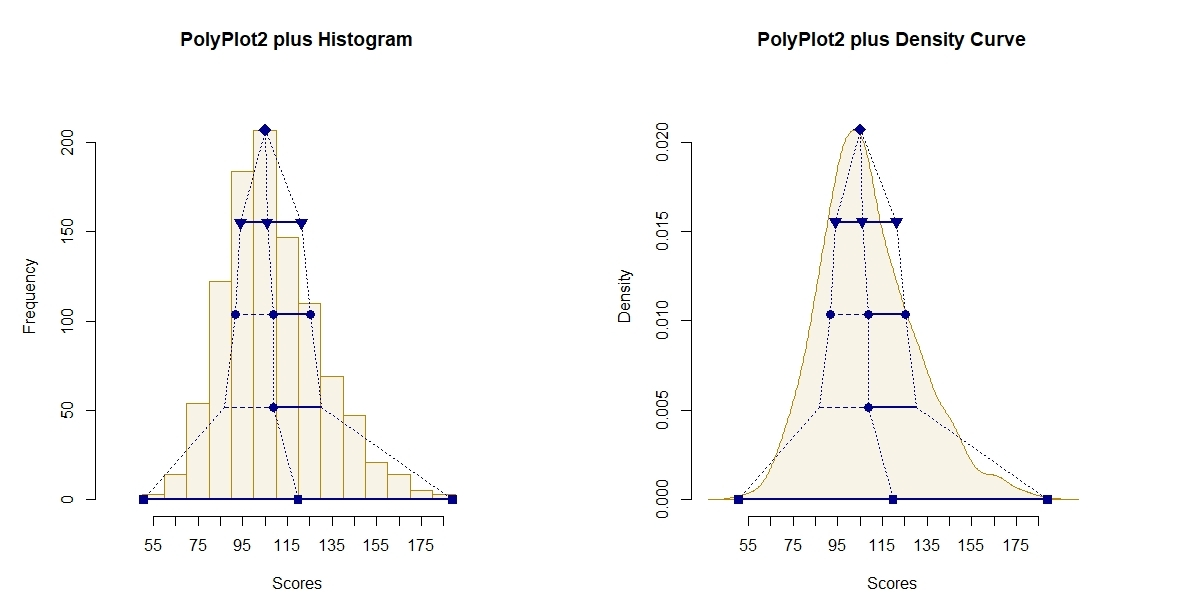
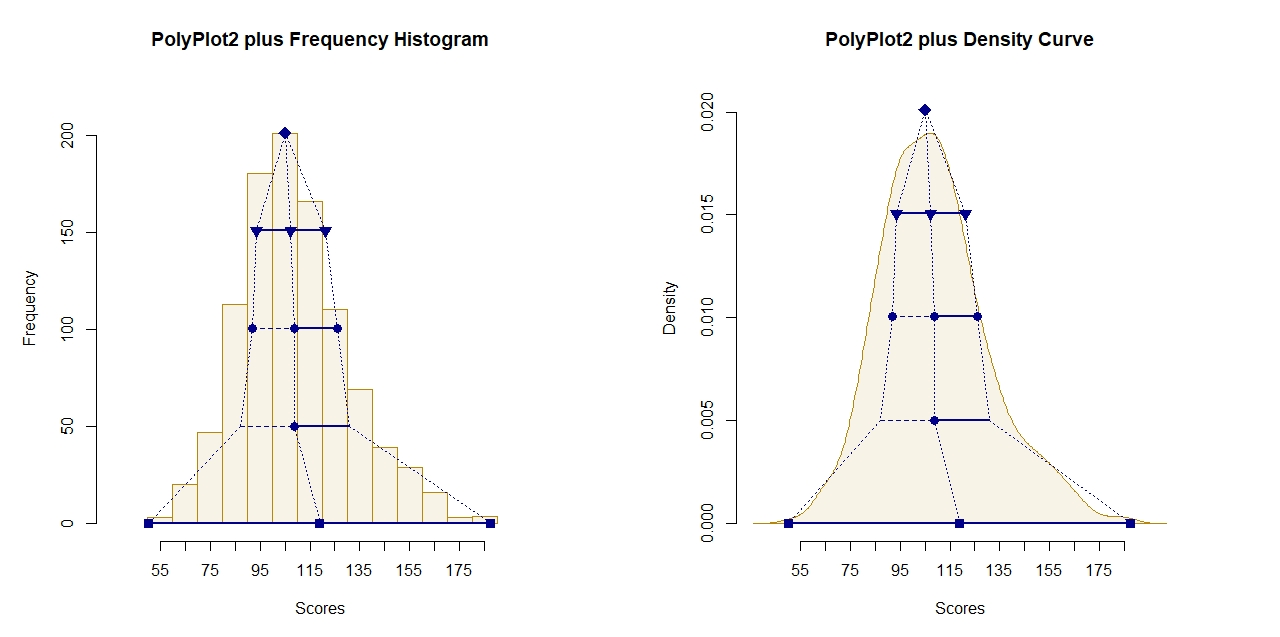
Separated content from type

diff --git a/docs/README.md b/docs/README.md
@@ -25,8 +25,8 @@ The following code demonstrates some of the available options for customizing th
 
 ```r
 par(mfrow=c(1,2))
-polyplot2(Scores,histogram=TRUE,curve=FALSE,values=FALSE,main="PolyPlot2 plus Histogram",col="darkblue",bg="darkgoldenrod")
-polyplot2(Scores,histogram=FALSE,curve=TRUE,values=FALSE,main="PolyPlot2 plus Density Curve",col="darkblue",bg="darkgoldenrod")
+polyplot2(Scores,plot="frequency",type="bar",values=FALSE,main="PolyPlot2 plus Frequency Histogram",col="darkblue",bg="darkgoldenrod")
+polyplot2(Scores,plot="density",type="curve",values=FALSE,main="PolyPlot2 plus Density Curve",col="darkblue",bg="darkgoldenrod")
 ```
 
 ![](./figures/polyplot2plus.jpeg)<!-- -->

diff --git a/NEWS.md b/NEWS.md
@@ -1,5 +1,9 @@
 # polyplot2
 
+## Developmental Version
+
+- Separated plot content from plot type
+
 ## polyplot2 0.1.220107
 
 - Initial release
